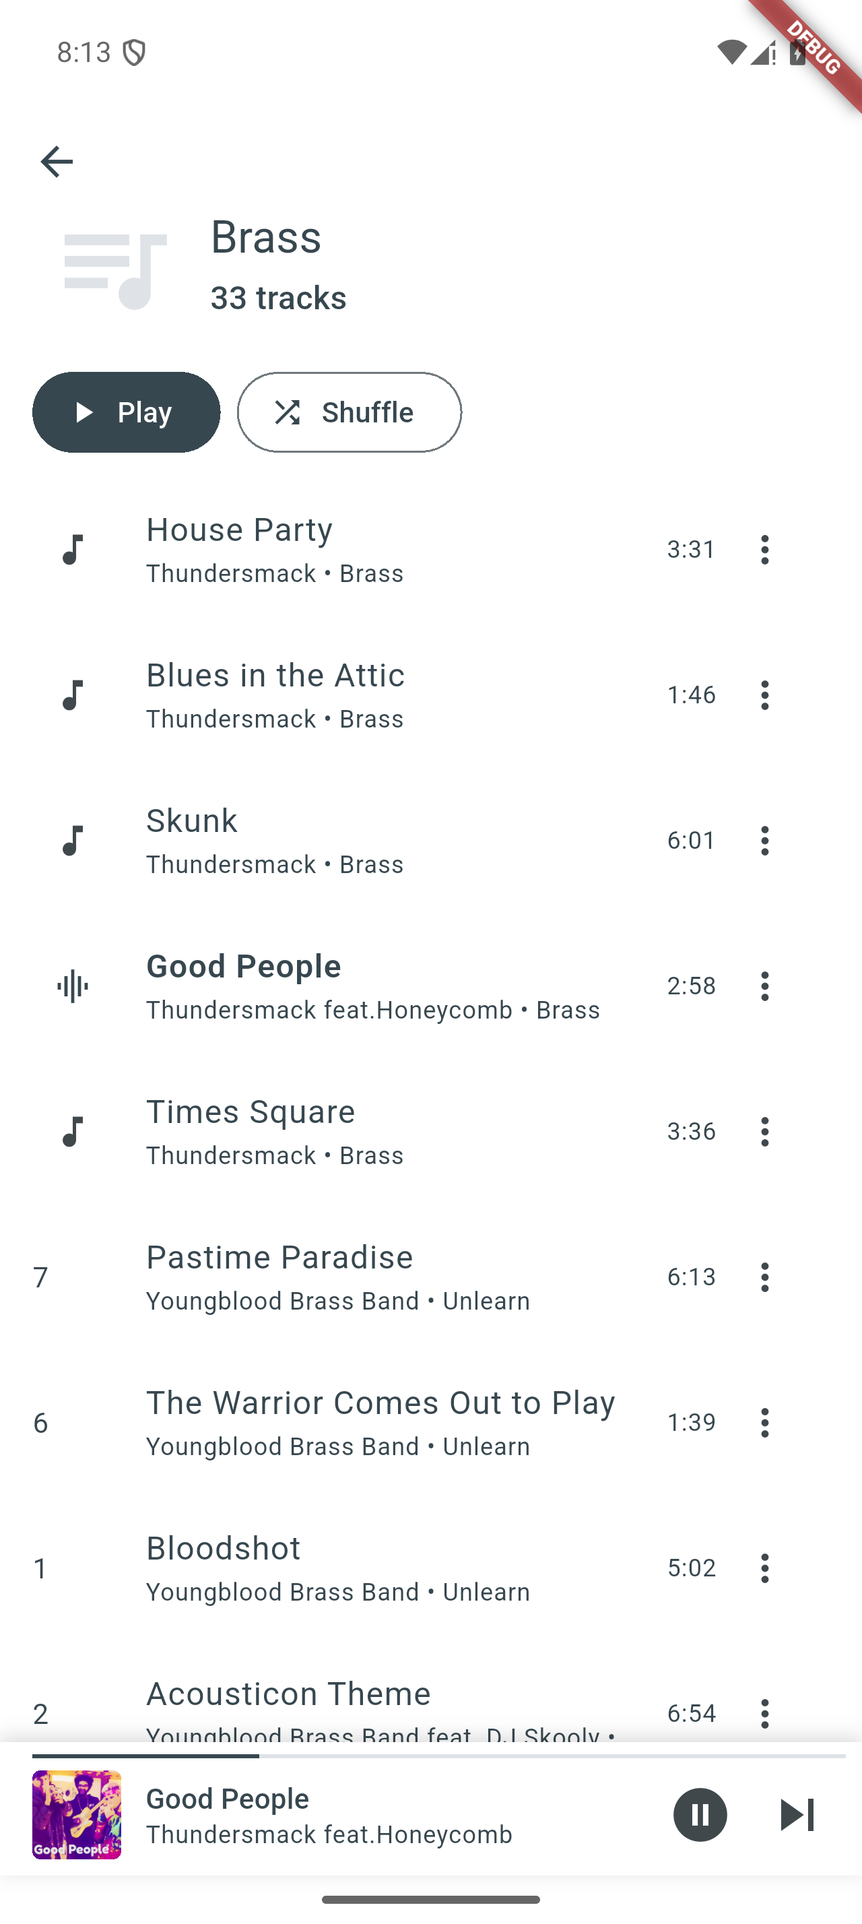
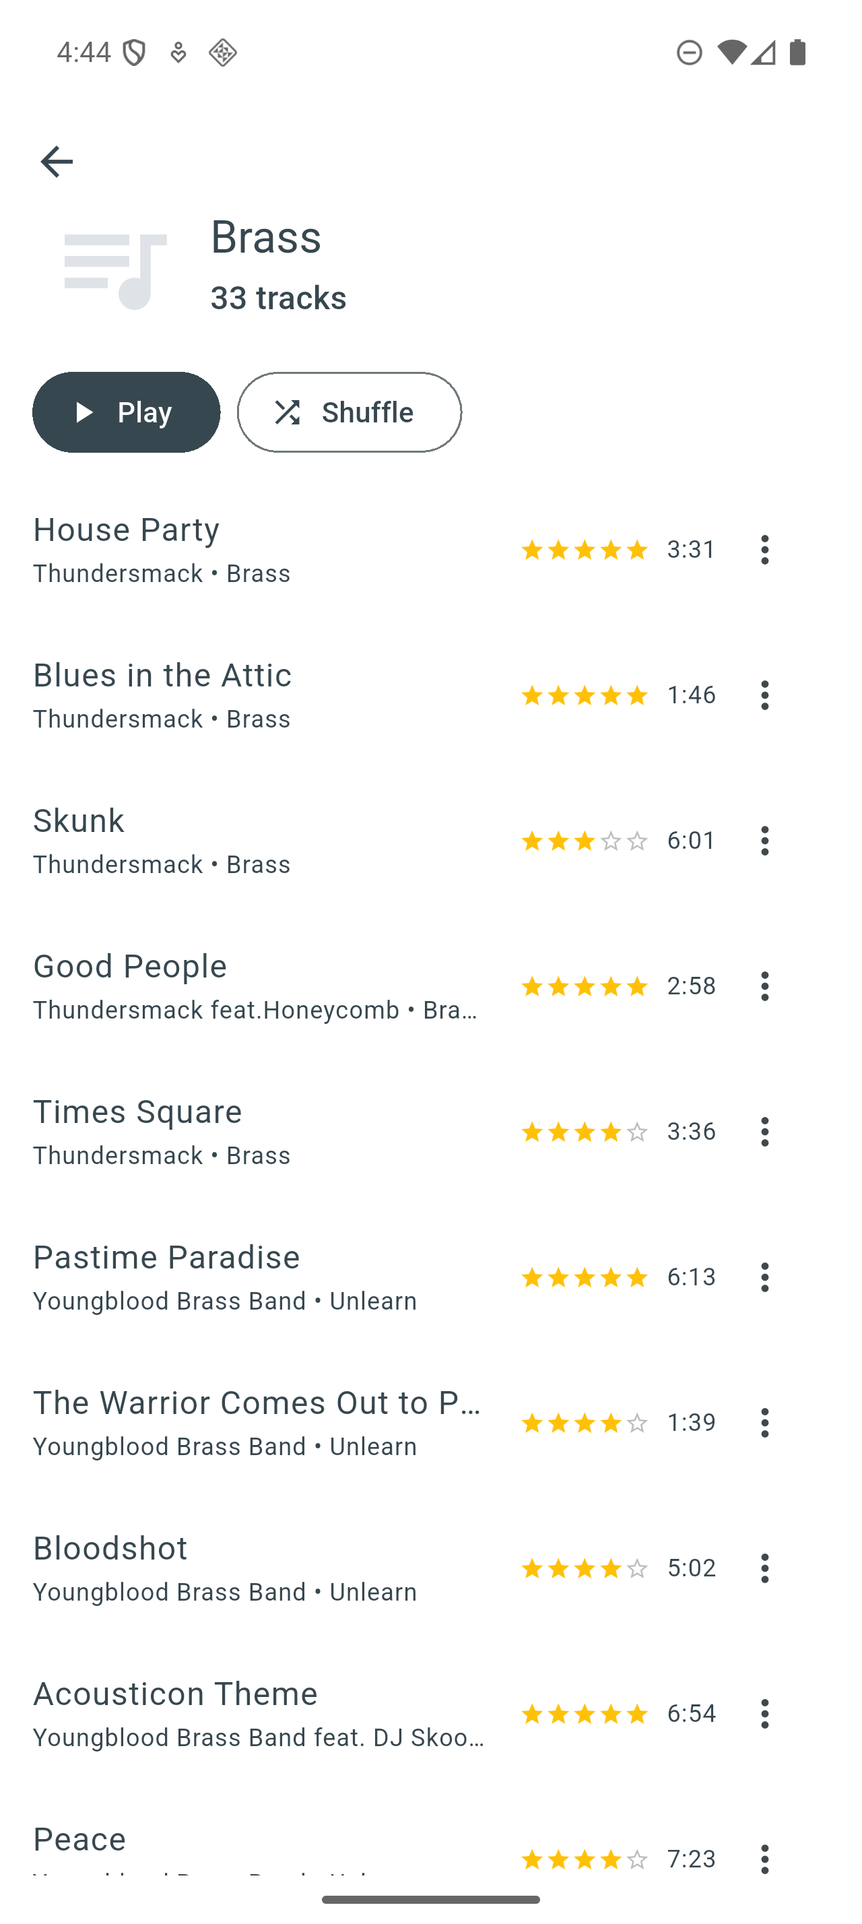
Refresh site screenshots and record the capture procedure as a skill
The PNGs predated v0.3.3 (playlist rows still showed the dropped
number column). All six re-shot from the 0.3.3+22 profile build on the
dedicated AVD, each gated by driver waitFor + content-desc assertions;
server-side counts verified unchanged after the two <2 s playback
captures (report attached).

The capture procedure lives in .opencode/skills/refresh-site-screenshots
so a future session replays it via the skill tool. Do not script this
again: a standalone script was attempted and abandoned the same day -
server state, SAF dialogs and lazy-list rendering are too many external
variables. flutter-agent-lens' widget/screenshot tools do not work on
profile builds (no ext.flutter.inspector); the skill documents the
raw ext.flutter.driver RPC path that does.

diff --git a/.agent/reports/site-screenshots-refresh-2026-10-26.md b/.agent/reports/site-screenshots-refresh-2026-10-26.md
@@ -1,0 +1,135 @@
+PHASE: Site screenshot refresh (session-driven) — COMPLETE
+
+GO/NO-GO CHECK
+  What it was: the six PNGs in `site/assets/screenshots/` regenerated from the
+  HEAD build (v0.3.3+22, incl. the invariant-54 lead-free playlist rows), with
+  per-screen content-desc assertions before each capture, and zero server-side
+  side effects from the playback captures.
+  Did you run it:        YES
+  What you observed: all six PNGs are 1280x2856; playlist-detail shows track
+  rows with **no** numbered leading (0 digit nodes; titles/ratings/durations
+  present via content-desc, e.g. `Good People\nThundersmack feat.Honeycomb •
+  Brass\nRated 5.0 of 5\n2:58`); now-playing re-shot with artwork
+  (`Bloodshot / Youngblood Brass Band / Unlearn`, `Playing from Unlearn`,
+  143 KB vs 80 KB for a no-artwork track); queue sheet full of TMZ rows with
+  `Clear queue` content-desc; server counts unchanged after playback.
+
+OBSERVED — things you did and saw, on the emulator, by hand
+  - Booted OwnTone_U2_API_36 (own PID), dnd on, animations 0, pm grant;
+    `pm clear`; launched `flutter run --profile -t test/driver_main.dart`;
+    `dumpsys package` confirmed **versionName=0.3.3** (previously the installed
+    APK was 0.2.0 — stale-build hazard caught).
+  - Drove first-run setup over raw `ext.flutter.driver` JSON-RPC (set_semantics
+    → ByTooltipMessage/ByText/ByType taps, focused `enter_text` for the URL);
+    tapped `Grant Permission` → uiautomator `Allow` → DocumentsUI (opened
+    pre-set to Music) `USE THIS FOLDER` → `ALLOW`; `Load Playlists` → tapped
+    `Brass` → verified `1 playlists selected` → Descendant-tapped the
+    ElevatedButton `Sync`; after `logcat -c`, observed
+    `Background sync completed: 33 tracks downloaded`.
+  - Captured playlist-detail after `waitFor "Good People"` + a uiautomator
+    assertion that counted **0** numbered leading nodes.
+  - Captured album-detail after `find_scroll "Unlearn"`, `find_scroll
+    "Pastime Paradise"`; artist-detail after `Too Many Zooz` (`6 albums • 13
+    tracks`); search after `enter_text "zooz"` + `find_scroll "Bad Guy"`.
+  - Playback pair with emulator music stream muted: tapped search result /
+    album `Play`, paused < 2 s (MediaSession log: PLAYING→PAUSED, position
+    11 ms), opened sheet via ByType `MiniPlayer`, captured now-playing then
+    queue (gate: `Queue` tooltip; `Clear queue` present as content-desc).
+    Tapped `Clear queue` afterwards.
+  - Server safety checks before/after: `/api/player` stayed `state: stop`;
+    `Bad Guy` (track 1867) play/skip = 14/0 both times (exact API baseline
+    taken first); sync screen showed `No playback events waiting to sync`
+    (outbox empty ⇒ nothing ever queued; `Bloodshot` 18/3 was pre-existing —
+    its pre-value was not recorded before play, see NOT VERIFIED).
+  - Torn down: killed my `flutter run` + emulator PID, `git checkout --
+    pubspec.yaml pubspec.lock`, deleted `test/driver_main.dart`.
+    `git status` shows only the six modified PNGs (plus another session's
+    `.agent/android-auto-prep.md`, untouched).
+
+NOT VERIFIED — implemented but not exercised, and why
+  - Visual quality of the PNGs: the agent has no vision. A human must open all
+    six before committing (sizes/dimensions/content-desc only are proven).
+  - `Bloodshot` counts pre-playback were not recorded (baseline taken only for
+    Bad Guy); the empty outbox line makes server-side change impossible, but
+    the 18/3 was assumed pre-existing rather than proven.
+  - The `flutter-agent-lens` screenshot tool itself was not used (profile
+    builds lack `ext.flutter.inspector`; `adb exec-out screencap` was used,
+    matching the Oct-22 pass).
+
+DEVIATIONS — anything not done as the phase specified
+  - The first `now-playing.png` captured `Bad Guy`, likely one of the 12
+    Brass tracks synced without artwork (80 KB); re-shot from the `Unlearn`
+    album (143 KB). First shot overwritten.
+  - The earlier scripted attempt (`tool/refresh-site-screenshots.sh`) was
+    deleted at the user's instruction before this pass; nothing from it ships.
+
+BUILD
+  flutter analyze: not re-run for this pass — no app code changed (temp
+  driver entry + dev-dep added and removed; tree verified clean afterwards).
+  flutter build apk --debug: not run (no code change).
+
+UNKNOWN — behaviour you could not explain
+  - `uiautomator dump` intermittently returns an unlabeled/empty Flutter tree
+    even with semantics on (worked on retry; exact trigger not determined —
+    animation race suspected).
+  - After sync completes, the Library briefly showed `No playlists synced`
+    (stale empty state) while the DB demonstrably held 33 tracks
+    (`0 tracks downloaded` on re-sync, `Brass\n33 tracks` after a back-nav).
+  - `scrollUntilVisible` is rejected as `Unsupported command kind` by this
+    Flutter version's driver extension despite existing in the protocol
+    (worked around with swipe-loop + 2 s waitFor).
+
+Evidence: this report. The procedure is captured for re-runs at
+`.opencode/skills/refresh-site-screenshots/` (SKILL.md + references/), routed
+from AGENTS.md.
+
+---
+
+AMENDMENT (same session): album-row number slot 40 px → 32 px — COMPLETE
+
+GO/NO-GO CHECK
+  What it was: keep `track_number` on album rows (user reversal from an
+  earlier "remove them" ask) but shrink the leading slot to fit 3 digits with
+  acceptable padding; re-shoot `album-detail.png` from the changed build.
+  Did you run it:        YES
+  What you observed: `album-detail.png` (213 KB, 1280x2856) captured from the
+  build containing the change; rows still render their numbers.
+
+OBSERVED — things you did and saw, on the emulator, by hand
+  - Changed both `SizedBox(width: 40)` wrappers in `library_rows.dart`'s
+    `TrackRow` to 32 px (caller-supplied number + `isCurrent` `graphic_eq`
+    slot, kept equal so rows stay aligned; 20 px icon still seats).
+    bodyMedium digit ≈ 7.8 dp → 3 digits ≈ 24 px + ~4 px/side padding.
+  - `flutter analyze` clean; `flutter test` 159 passed; `flutter build
+    apk --debug` built; no test pinned the old width.
+  - Booted my OwnTone_U2_AVd (its console happened to claim `emulator-5554`
+    this time — confirmed via `adb -s … emu avd name` that the device I drove
+    was my own process/AVD, 1280x2856), `flutter run --profile` →
+    `versionName=0.3.3`; navigated Albums → `Unlearn`; rows present in
+    content-desc with numbers: `1\nBloodshot\nBrass\nRated 4.0 of 5\n5:02`,
+    `2\nAcousticon Theme…`; screencap → `album-detail.png`.
+  - Torn down (killed my `flutter run` + qemu; `git checkout --
+    pubspec.yaml pubspec.lock`; deleted `test/driver_main.dart`).
+
+NOT VERIFIED — implemented but not exercised, and why
+  - Visual judgment of "acceptable padding": needs the human's eyes on the PNG.
+
+DEVIATIONS — anything not done as the phase specified
+  - Invariant 54 updated in place (40→32 px + rationale) — user-directed
+    change, not silent; the historical "stole 40 px" sentence kept as-is.
+  - First two emulator launches died (GUI variant never registered with adb;
+    the tool call's cleanup reaped one). A third launch with
+    `</dev/null … & disown` survived. Lesson: detach fully.
+  - `-gpu auto` GUI mode also broke snapshot loading (GLES renderer change →
+    cold boot, userdata intact but `versionName` reverted in dumpsys until
+    `flutter run` reinstalled); subsequent runs used `-no-window -no-audio`.
+
+BUILD
+  flutter analyze: No issues found!
+  flutter build apk --debug: ✓ Built build/app/outputs/flutter-apk/app-debug.apk
+
+UNKNOWN — behaviour you could not explain
+  - The GUI emulator (`-gpu auto`) booted ("Boot completed") but never
+    appeared in `adb devices` and eventually exited; the headless variant
+    behaves normally. Suspected GPU/window-server interaction; not chased.
+

diff --git a/.opencode/skills/refresh-site-screenshots/references/screens.md b/.opencode/skills/refresh-site-screenshots/references/screens.md
@@ -1,0 +1,86 @@
+# Screens — navigation and pre-capture assertions
+
+Device: `OwnTone_U2_API_36` AVD, `dev.educoder.owntone_sync`, display
+1280x2856 (confirm with `wm size`). Output dir: `site/assets/screenshots/`.
+All `waitFor`s go through the raw driver (see driver.md). Content-desc
+assertions via uiautomator dump. Synced test content: server playlist
+**Brass** (server id 11, 33 tracks) from `http://192.168.1.13:3689`; known
+rows: `Good People` (Thundersmack), album `Unlearn` (Youngblood Brass Band,
+track `Pastime Paradise`), artist `Too Many Zooz` (track `Bad Guy`).
+
+Before anything: `set_semantics` once; assert Library with
+`waitFor "Playlists"` — but **confirm the screen** before tapping: SyncScreen
+also contains `Playlists` and `Brass` rows (the picker). Discriminators:
+Library has `Albums\nTab 3 of 4`; SyncScreen has `1 playlists selected` /
+`Sync Options`.
+
+## 1. playlist-detail.png
+1. Library (Playlists tab): `waitFor "Brass"` → `tap "Brass"`.
+2. Gate: `waitFor "Play"` (header Play button) and `waitFor "Good People"`.
+3. Assert dump: row content-descs like
+   `Good People\nThundersmack feat.Honeycomb • Brass\nRated 5.0 of 5\n2:58`;
+   **zero** standalone digit nodes 1..33 (invariant 54 — playlist rows are
+   lead-free; album rows keep numbers).
+4. `adb exec-out screencap -p > playlist-detail.png`.
+
+## 2. album-detail.png
+1. `keyevent 4` → Library → `tap "Albums"` (tab).
+2. `find_scroll "Unlearn"` → `tap "Unlearn"` (album list is alphabetical and
+   lazy; rows below the fold are invisible to ByText).
+3. `find_scroll "Pastime Paradise"`; swipe back to top; sleep 1.
+4. Assert: `Unlearn` + `Pastime Paradise` in dump; numbered rows may show
+   digits in content-desc (`2\nAcousticon Theme\n…`) — expected here.
+5. Capture.
+
+## 3. artist-detail.png
+1. Back → Library → `tap "Artists"` → `find_scroll "Too Many Zooz"` → tap.
+2. `find_scroll "Bad Guy"`; swipe to top.
+3. Assert `Too Many Zooz\n6 albums • 13 tracks` (counts may drift with the
+   library — match on the artist name + `albums •`).
+4. Capture.
+
+## 4. search.png
+1. Back → Library (assert `Back` + `Search` content-descs present — the
+   Search icon is Library-only; on detail screens it times out).
+2. `tap` tooltip `Search` → `tap` ByType `EditableText` → `enter_text "zooz"`.
+   The field starts empty; if revisiting, it keeps the old query — clear or
+   use a fresh query rather than assuming.
+3. `find_scroll "Bad Guy"`; swipe to top.
+4. Capture.
+
+## 5–6. now-playing.png + queue.png (playback — audio-safety gate)
+Mute first: `cmd media_session volume --stream 3 --set 0`. Record server
+counts for the chosen track (see SKILL.md). Play from the **search results**
+(`tap "Bad Guy"` — two matches → scroll it into view; use the result row,
+Descendant under the list if ambiguous) or an album's `Play` button
+(album art guaranteed — good for now-playing).
+1. Immediately `tap` tooltip `Pause` (<2 s; server `/api/player` must stay
+   `stop` — the app plays local files, never the server output).
+2. `tap` ByType `MiniPlayer` → sheet. Gate: `waitFor` tooltip `Queue`.
+3. Assert dump: `<title>\n<artist>\n<playlist>`, `0:00\n<m:ss>`,
+   `Playing from <source>`. Capture **now-playing.png**.
+4. `tap` tooltip `Queue` → gate: content-desc `Clear queue` (it is a
+   content-desc, not a text — ByText will "fail"; don't panic). Capture
+   **queue.png**.
+5. Cleanup: tap `Clear queue`; back out of sheets. Verify sync screen says
+   `No playback events waiting to sync` and re-read the track counts from the
+   API — unchanged.
+
+## Sizing sanity
+All six: `sips -g pixelWidth -g pixelHeight` = device size; static shots
+> 150 KB typical. **now-playing ≈ 140 KB = artwork rendered; ≈ 80 KB = no
+artwork — re-shoot with a track from an album that showed artwork.**
+Old committed PNGs are the size baseline (`git diff --stat`).
+
+## First-run setup (only if `pm clear`ed or Library shows `No playlists synced`)
+Drawer (`tap` tooltip `Open navigation menu`) → `Settings` → server tile →
+tap field (ByType `EditableText`) → `enter_text "http://192.168.1.13:3689"` →
+`tap "Save"`. Then drawer → `Sync` → `Grant Permission` →
+uiautomator-tap `Allow` (permissioncontroller) → DocumentsUI usually opens
+**already in Music** → `USE THIS FOLDER` → `ALLOW`. Then `Load Playlists` →
+`tap "Brass"` → **assert `1 playlists selected`** → Descendant-tap ElevatedButton
+`Sync` → `adb logcat -c` first, then poll `logcat -d -s BackgroundSyncWorker`
+for `Background sync completed: 33 tracks`. `0 tracks downloaded` on a
+re-sync is fine (DB already had them). If Library then shows
+`No playlists synced`, you deselected by tapping the row again — reselect and
+sync.

diff --git a/.opencode/skills/refresh-site-screenshots/SKILL.md b/.opencode/skills/refresh-site-screenshots/SKILL.md
@@ -1,0 +1,81 @@
+---
+name: refresh-site-screenshots
+description: Use when asked to refresh, regenerate, or re-shoot the six site
+  screenshots in site/assets/screenshots/ (playlist-detail, album-detail,
+  artist-detail, search, now-playing, queue). Session-driven capture from the
+  HEAD build on the dedicated AVD, not a standalone script.
+---
+
+# Refresh site screenshots
+
+Regenerates the six PNGs on the marketing site by driving the real app on the
+project AVD. A script was tried and abandoned: media availability, server
+state, SAF dialogs, and lazy-list rendering make it brittle. A session drives
+it, observing at every step. **A human reviews the images — the agent has no
+vision; content-desc assertions prove the right screen rendered, not that it
+looks good.**
+
+## Constraints
+
+MUST
+- Drive UI only from the **HEAD build** (`flutter run --profile` installs it —
+  verify `dumpsys package … versionName` equals pubspec after launch; the
+  stale 0.2.0 on the AVD once produced silently-stale shots).
+- Use the `OwnTone_U2_API_36` AVD and **only its own PIDs**; enumerate
+  `adb devices` first and never touch `emulator-5554`, `emulator-5558`, or any
+  physical device — other sessions own them. Kill what you started at the end.
+- Before playback: mute emulator music (`cmd media_session volume --stream 3
+  --set 0`), record the track's server counts (`GET
+  /api/library/playlists/11/tracks`, match title), pause **within ~2 s** (under
+  the A9 threshold → no event queued), then verify the sync screen still says
+  `No playback events waiting to sync` and counts are unchanged.
+- `adb logcat -c` before waiting for `Background sync completed` (plain
+  `logcat -d` matches old history).
+- Read the server at `http://192.168.1.13:3689` **read-only**, API paths under
+  `/api/*` (not `/json/*`).
+- Tear down: kill `flutter run` + your emulator PID, `git checkout --
+  pubspec.yaml pubspec.lock`, `rm test/driver_main.dart`.
+
+MUST NOT
+- Tap a playlist row in **SyncScreen's** picker — it toggles selection and can
+  unsync (deletes tracks). Verify `1 playlists selected` right before tapping
+  the Sync button, and never after a sync has completed.
+- Trust `uiautomator dump` on Flutter screens for text: it is flaky and often
+  exposes **content-desc only** (with `&#10;` entities — html-unescape).
+  Use the driver's own `waitFor` for gating assertions.
+- Use `flutter-agent-lens` `widget`/`hot_restart` on profile builds —
+  `ext.flutter.inspector`/`reassemble` do not exist there; relaunch
+  `flutter run` for a clean state instead.
+
+## Workflow
+
+1. Boot AVD; prep: `cmd notification set_dnd on`, animation scales 0,
+   `pm grant dev.educoder.owntone_sync android.permission.READ_MEDIA_AUDIO
+   POST_NOTIFICATIONS`.
+2. Temp driver entry: add `flutter_driver: {sdk: flutter}` to
+   `dev_dependencies`, create `test/driver_main.dart`
+   (`enableFlutterDriverExtension(); app.main();`), `flutter pub get`.
+3. `flutter run --profile -d <serial> -t test/driver_main.dart` in background,
+   log to file; extract VM URI (`http://127.0.0.1:PORT/…/` → `ws://`) once
+   printed. Check `versionName` matches pubspec.
+4. First run of a wiped app: complete setup via driver + uiautomator
+   (server URL `http://192.168.1.13:3689`, `Grant Permission` → `Allow` →
+   `USE THIS FOLDER` → `ALLOW`), then `Load Playlists` → tap `Brass` →
+   verify `1 playlists selected` → Descendant-tap the ElevatedButton `Sync` →
+   wait for `Background sync completed` in fresh logcat (33 tracks).
+5. Capture the six screens per `references/screens.md` — every screen is
+   gated by driver `waitFor`s and a uiautomator content-desc assertion
+   **before** `adb exec-out screencap -p`.
+6. Verify: each PNG is device size (`wm size`, 1280x2856 here) and > 40 KB;
+   `now-playing.png` ≈ 140 KB indicates artwork rendered (~80 KB = missing
+   artwork — pick a track whose album showed artwork).
+7. Tear down (above), then ask the human to eyeball the PNGs; write the report
+   to `.agent/reports/` per verification-protocol §6.
+
+## References
+
+- `references/driver.md` — raw RPC client source, exact command JSON, and the
+  verified command/founder quirks (ByType `type` key, Descendant nested finders
+  as JSON strings, swipe-loop instead of scrollUntilVisible, enter_text rules).
+- `references/screens.md` — per-screen navigation steps, exact waitFor strings,
+  and pre-capture assertions.

diff --git a/.opencode/skills/refresh-site-screenshots/references/driver.md b/.opencode/skills/refresh-site-screenshots/references/driver.md
@@ -1,0 +1,85 @@
+# Driver tooling — verified against this repo (profile build, Oct 2026)
+
+`package:flutter_driver`'s client hangs (`waitUntilNoTransientCallbacks`); the
+MCP dart flutter_driver tool misreports the extension. Raw JSON-RPC to the VM
+service calling `ext.flutter.driver` answers instantly. Keep these files in a
+scratch dir **outside** the repo (e.g. `/tmp/drvpkg`) so `flutter run`'s
+native-assets lock never blocks `dart run`.
+
+## drv.dart — one-shot driver RPC (exit 0 = success)
+
+```dart
+import 'dart:convert';
+import 'dart:io';
+Future<void> main(List<String> args) async {
+  final ws = await WebSocket.connect(
+      Platform.environment['VM_URI']!.replaceFirst('http', 'ws'));
+  final b = ws.asBroadcastStream();
+  var id = 0;
+  Future<Map<String, dynamic>> rpc(String m, [Map<String, dynamic>? p]) async {
+    final n = ++id;
+    ws.add(jsonEncode({'jsonrpc': '2.0', 'id': n, 'method': m, 'params': p ?? {}}));
+    final ev = await b.firstWhere((e) => jsonDecode(e as String)['id'] == n);
+    return jsonDecode(ev as String) as Map<String, dynamic>;
+  }
+  final vm = await rpc('getVM');
+  final isolateId = (vm['result']['isolates'] as List).first['id'] as String;
+  final msg = await rpc('ext.flutter.driver',
+      {'isolateId': isolateId, ...jsonDecode(args[0])});
+  await ws.close();
+  if (msg['error'] != null) { stderr.writeln(msg['error']); exit(1); }
+  final r = msg['result'] as Map<String, dynamic>;
+  if (r['isError'] == true) { stderr.writeln(r['response']); exit(1); }
+  exit(0);
+}
+```
+
+Use `VM_URI` from the `flutter run` log (`available at: http://…/`). Run:
+`VM_URI=... dart drv.dart '{"command":"get_health"}'`.
+
+For commands that return data (`get_text`, `waitFor` diagnostics), print
+`msg['result']['response']` instead of exit code.
+
+## Verified command forms
+
+| Need | Command JSON |
+|---|---|
+| Enable semantics (once per session; re-run after back navigations if uiautomator goes blind) | `{"command":"set_semantics","enabled":true}` |
+| Wait/gate | `{"command":"waitFor","finderType":"ByText","text":"…","timeout":"10000"}` |
+| Tap text | `{"command":"tap","finderType":"ByText","text":"…"}` |
+| Tap icon/button by tooltip | `{"command":"tap","finderType":"ByTooltipMessage","text":"Search"}` (`Open navigation menu`, `Pause`, `Queue`, `Clear queue`, `Back`) |
+| Tap field to focus | `{"command":"tap","finderType":"ByType","type":"EditableText"}` — key is **`type`**, not `text` |
+| Type text | focus first, then `{"command":"enter_text","text":"…"}` — enters into the focused field; `adb input text` does NOT reach it |
+| Ambiguous duplicate text | Descendant finder; **nested finders are JSON-encoded strings**: `{"command":"tap","finderType":"Descendant","of":"{\"finderType\":\"ByType\",\"type\":\"ElevatedButton\"}","matching":"{\"finderType\":\"ByText\",\"text\":\"Sync\"}","matchRoot":false,"firstMatchOnly":true}` |
+| Open now-playing sheet | `{"command":"tap","finderType":"ByType","type":"MiniPlayer"}` |
+
+**Not available / broken:** `scrollUntilVisible` → `Unsupported command kind`.
+`get_text` with `ByType Text` hangs. No hot restart / `ext.flutter.inspector`
+in profile builds — relaunch `flutter run` to reset app state (prefs/DB
+persist; app returns to Library).
+
+## Scroll-aware find (lazy ListViews build only visible rows)
+
+```bash
+find_scroll() { # <text> [max]
+  local t="$1" max="${2:-12}"
+  for _ in $(seq 1 "$max"); do
+    dart drv.dart "{\"command\":\"waitFor\",\"finderType\":\"ByText\",\"text\":\"$t\",\"timeout\":\"2000\"}" >/dev/null 2>&1 && return 0
+    adb -s "$SERIAL" shell input swipe 640 1800 640 900 250 >/dev/null
+  done; return 1; }
+```
+Swipe back down (`640 900 → 640 1800`) before capturing so the shot starts at
+the top.
+
+## uiautomator helper (native dialogs + Flutter content-desc)
+
+Dump to `/sdcard` and `cat` it — `exec-out uiautomator dump /dev/stdout`
+truncates. Retry the dump 3–5 times when empty (animations). Flutter exposes
+**content-desc** (row summaries like `Good People\nThundersmack • Brass\nRated
+5.0 of 5\n2:58`, tabs as `Albums\nTab 3 of 4`), usually no `text` — decode
+`&#10;` entities (`html.unescape`) before matching. Native dialogs
+(`com.google.android.permissioncontroller`, `com.google.android.documentsui`)
+expose real `text` and are tapped by center of `bounds`.
+
+Gate every capture with driver `waitFor`s (authoritative); use the dump as a
+second check.

diff --git a/AGENTS.md b/AGENTS.md
@@ -24,6 +24,7 @@ Shipped at v0.2.0. The eight-phase player refactor is complete.
 | `.agent/verification-protocol.md` | **Always** | What counts as evidence, and the report format. Short. |
 | `.agent/blockers.md` | **Always** | Open defects. What you are about to fix may already be diagnosed here. |
 | `.agent/player-ux-spec.md` | Changing behaviour | What the app is meant to do: user stories, acceptance criteria. |
+| `.opencode/skills/refresh-site-screenshots/SKILL.md` | Refreshing `site/assets/screenshots/` | Session-driven capture procedure (load it via the `skill` tool). Do not re-attempt a standalone script — external variables defeated one in Oct 2026. |
 | `.agent/player-refactor-plan.md` §2 | Touching playback | The architecture. **§1 and §3 are historical** — they describe code as it was before the refactor. |
 | `.agent/backlog.md` | Asked to | Unscheduled ideas. Not a to-do list. |
 | `.agent/reports/` | Rarely | Historical evidence of what was verified. **Not guidance** — anything still binding was promoted into `invariants.md`. |
